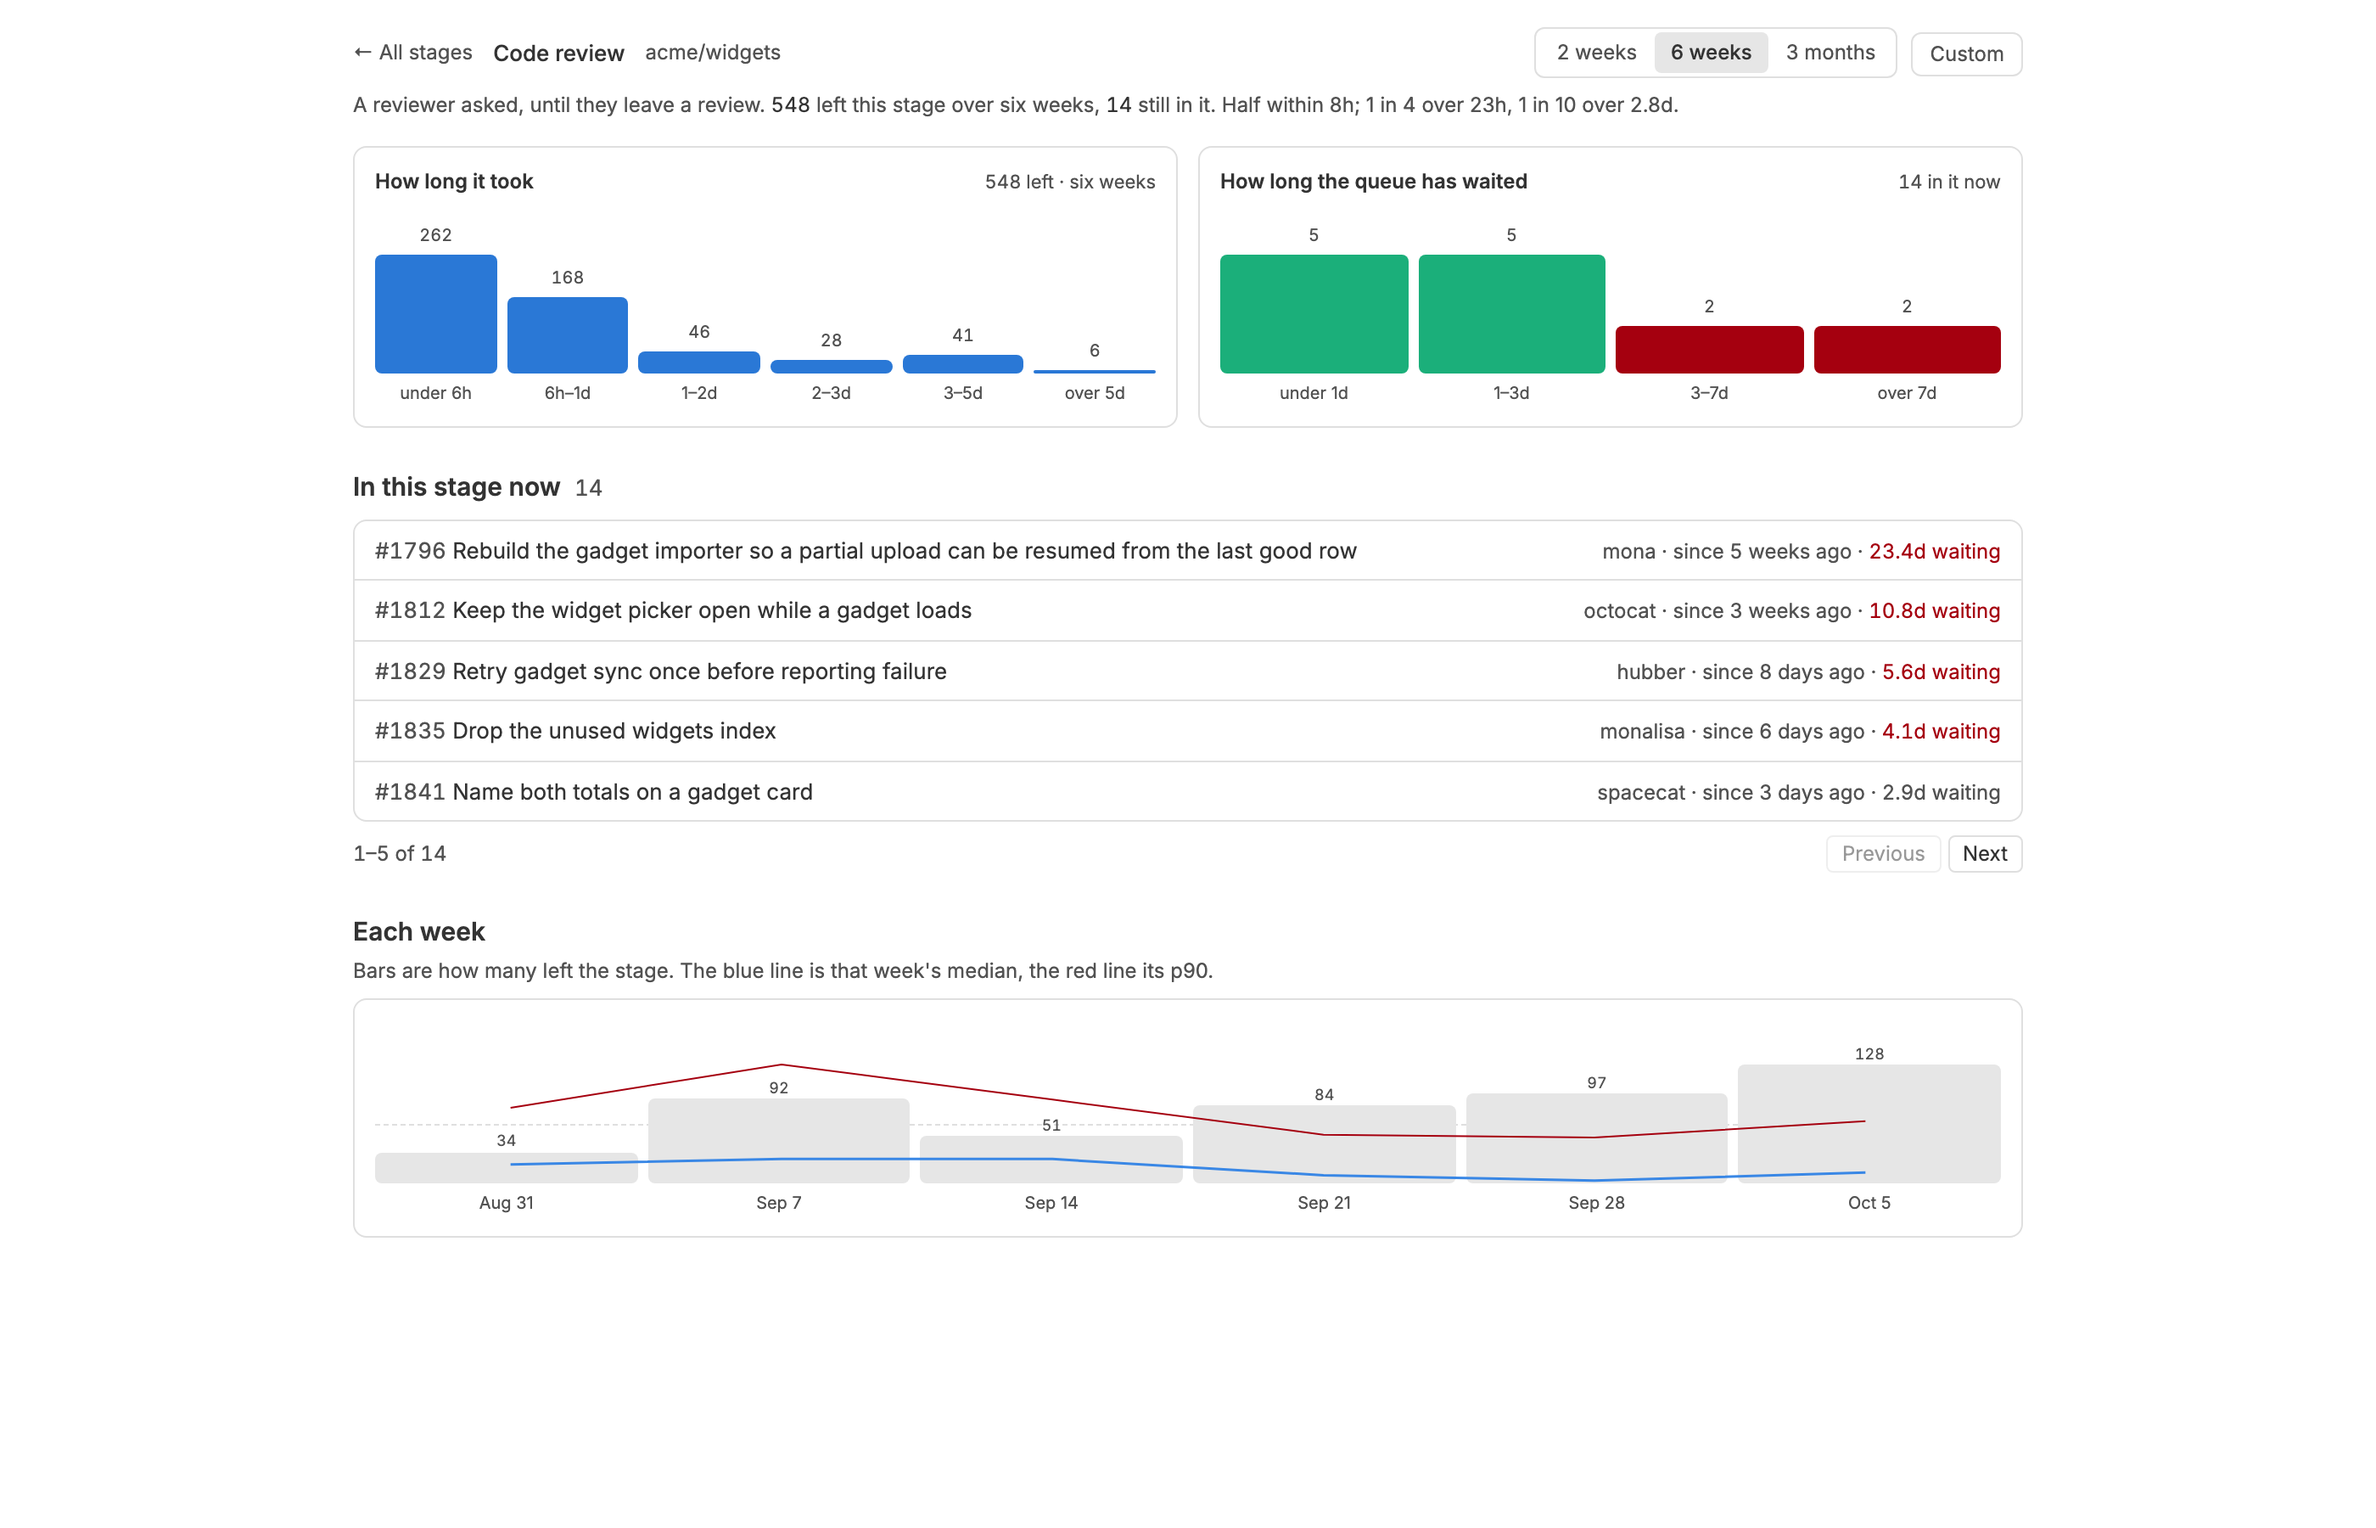
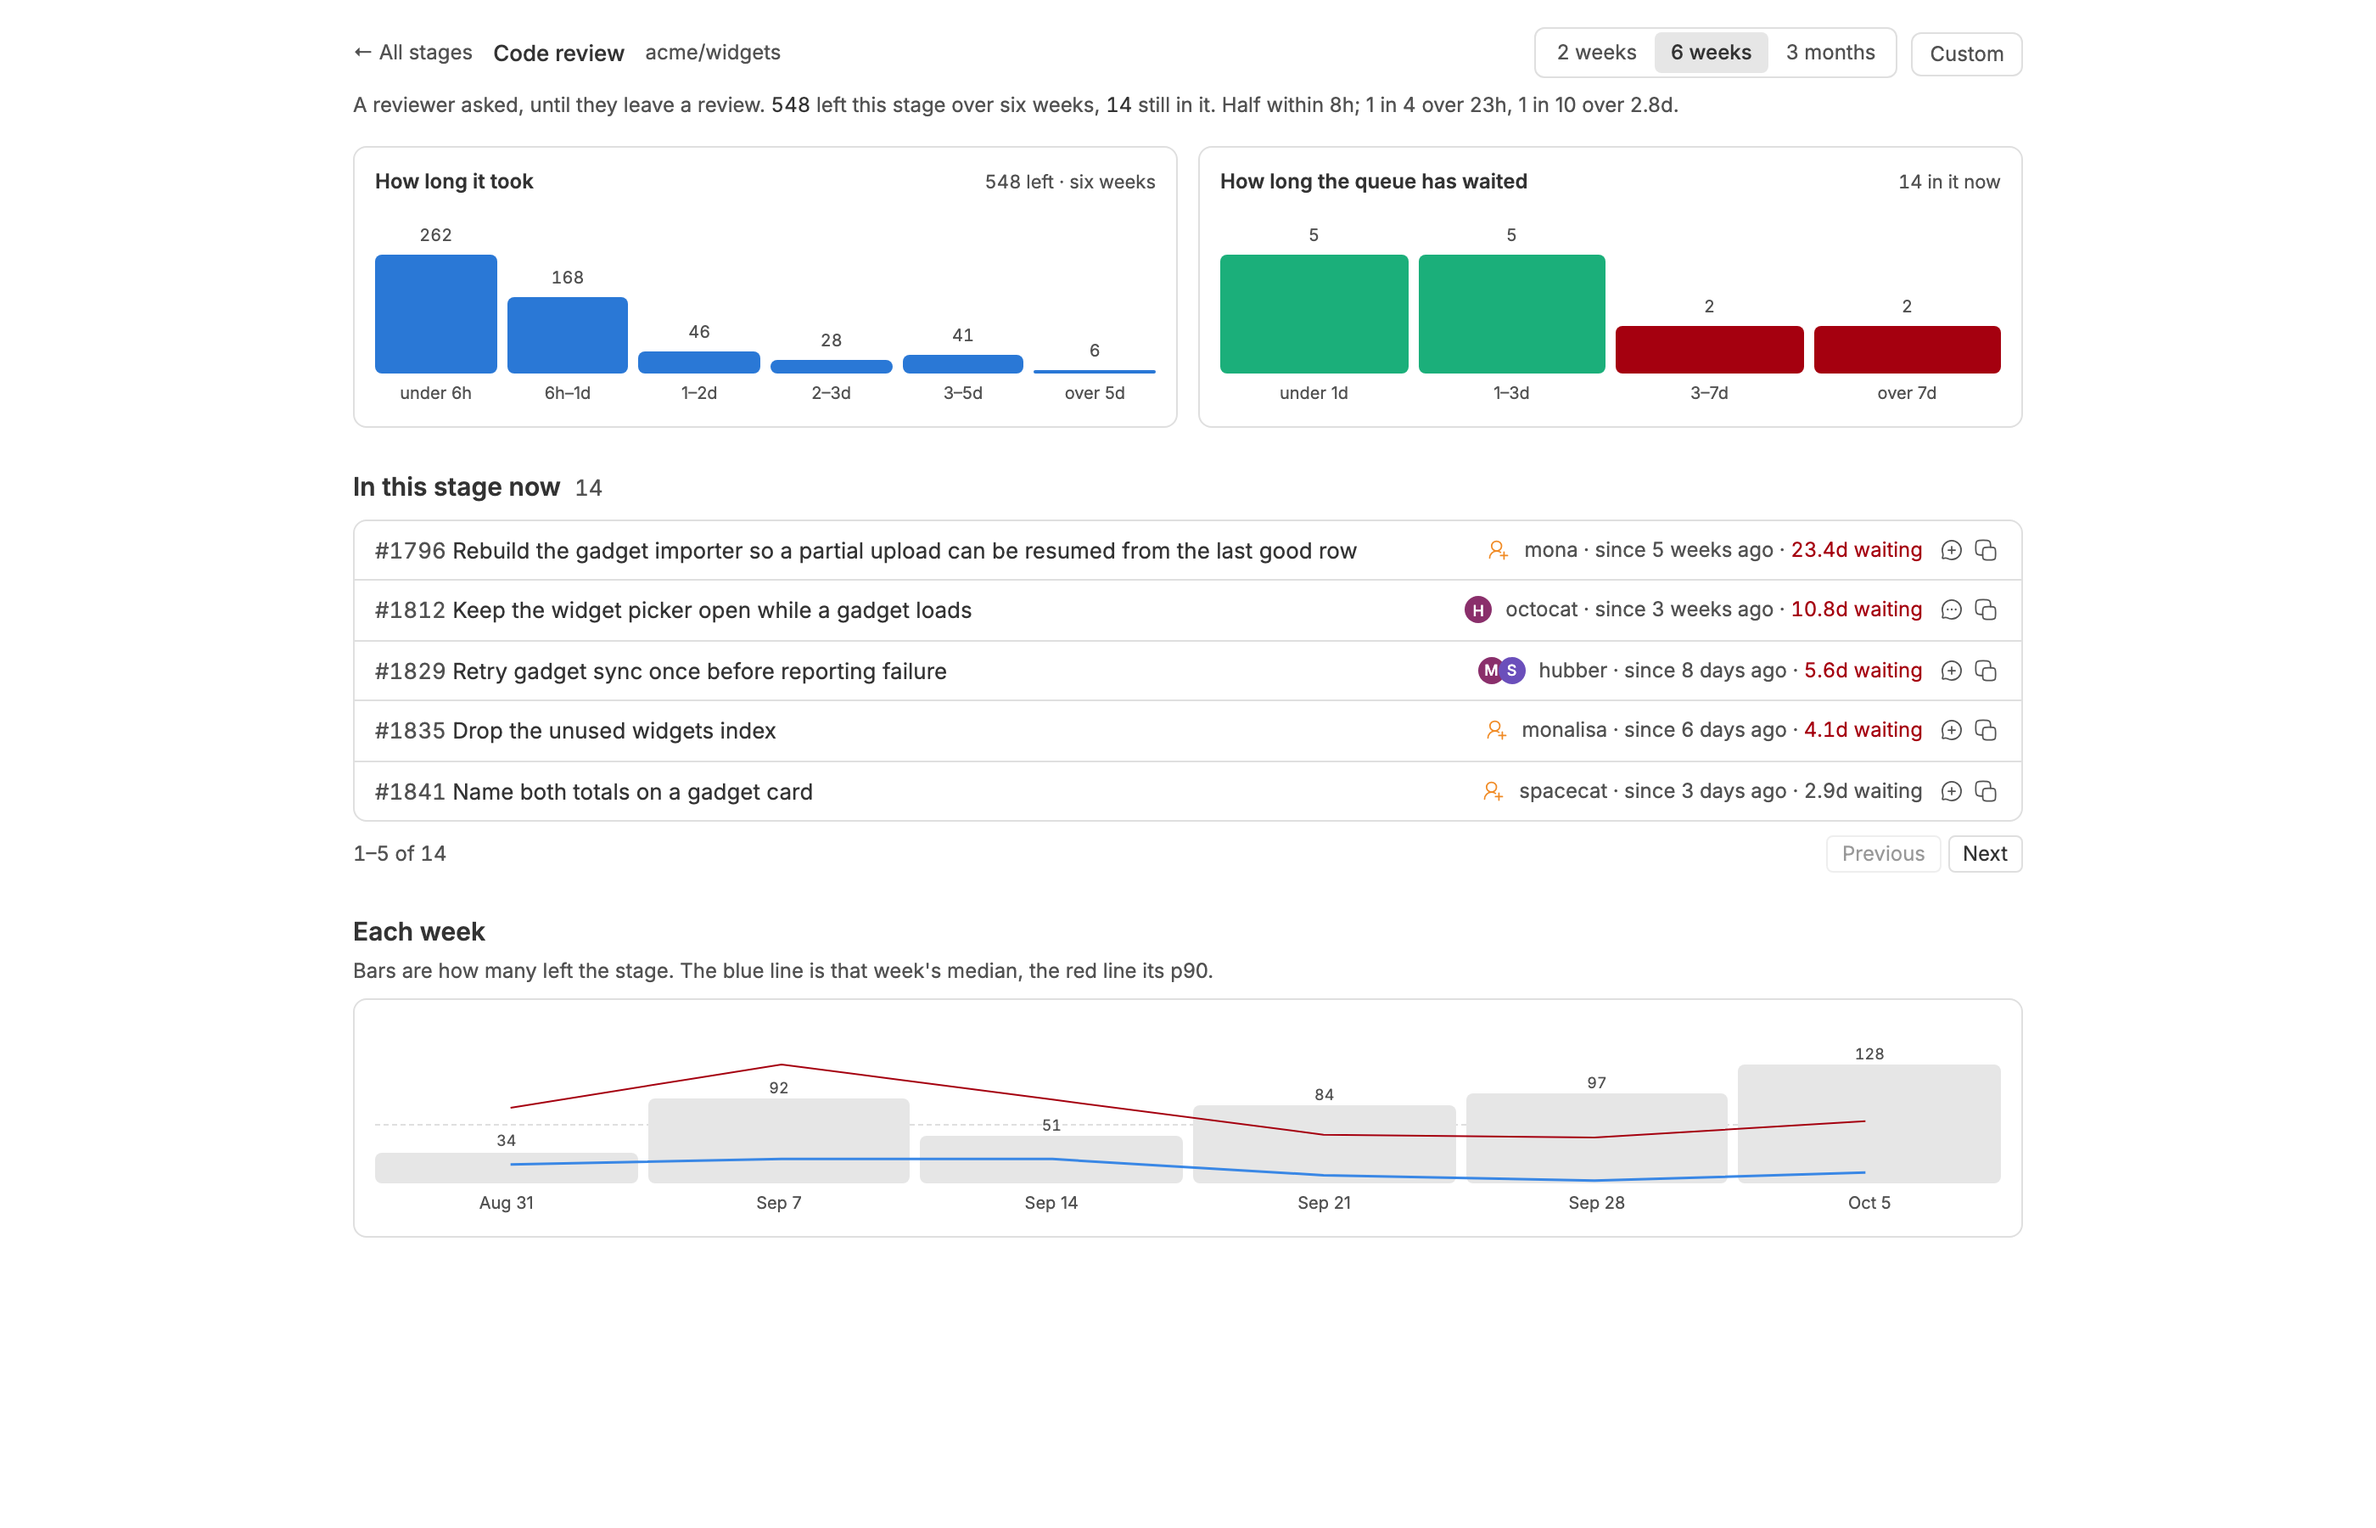
4ba0332 Open the composer when the panel has no project
danielbachhuber/bb-plugins@4ba03329c89fee99bcb1158feb3fdbf243e39454

Captured with uncommitted changes in the bb-plugins checkout.

Changed region(s): [[0.6214, 0.3422, 0.8389, 0.5289]]

diff --git a/contributor-dashboard/README.md b/contributor-dashboard/README.md
@@ -2,7 +2,7 @@
 
 # Contributor Dashboard
 
-A dashboard of how people contribute to one GitHub repository, from a local mirror of its pull requests, reviews and issues. The page opens with the flow of stages work passes through, from Triage and Assign ownership on issues to Implement change, Prepare pull request, Code review and Merge decision on pull requests, each with how many are in it now and the median, p75 and p90 of how long it takes, and clicking a stage lists what is in it. Under it, PR Velocity charts for each person the pull requests they opened and the ones that merged, and Review Velocity the reviews requested of them and the reviews they gave, over 2 weeks, 6 weeks, 3 months, or a range of dates you pick, drawn by day, week or month to suit the span, with the quietest people folded into rows of counts. Clicking a name opens that person's page.
+A dashboard of how people contribute to one GitHub repository, from a local mirror of its pull requests, reviews and issues. The page opens with the flow of stages work passes through, from Triage and Assign ownership on issues to Implement change, Prepare pull request, Code review and Merge decision on pull requests, each with how many are in it now and the median, p75 and p90 of how long it takes, and clicking a stage lists what is in it, every row naming whoever it is assigned to and offering to start a thread on it or copy its link. Under it, PR Velocity charts for each person the pull requests they opened and the ones that merged, and Review Velocity the reviews requested of them and the reviews they gave, over 2 weeks, 6 weeks, 3 months, or a range of dates you pick, drawn by day, week or month to suit the span, with the quietest people folded into rows of counts. Clicking a name opens that person's page.
 
 Source: [`bb-plugin-contributor-dashboard`](https://github.com/danielbachhuber/bb-plugins/tree/main/bb-plugin-contributor-dashboard)
 
